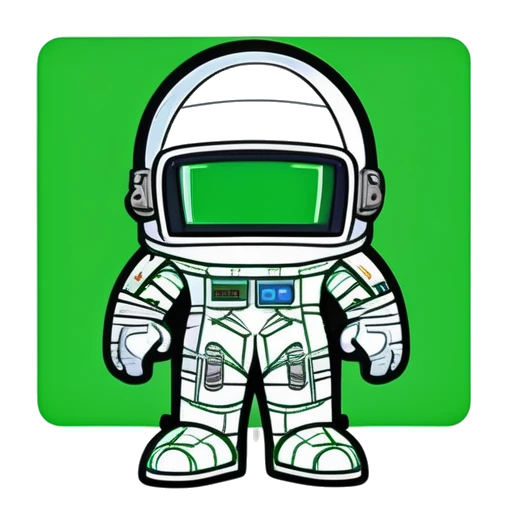
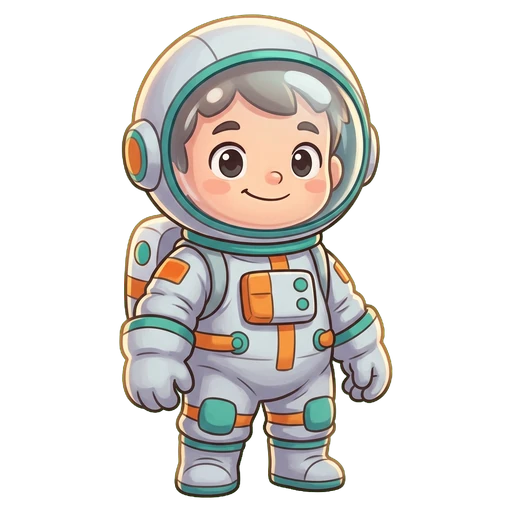
feat(themes): dedicated space and desert art, replacing borrowed assets
The theme art had three defects that were visible in the app, not matters of
taste:

* themes/space/background.webp was beige dune foliage -- not space -- and
  themes/space/quest_hero.webp was a byte-identical md5 copy of that same
  background, so the home hero card rendered a landscape and the file was
  bundled twice.
* themes/space/character.webp shipped with an opaque green chroma box baked
  into its pixels (RGBA, but every "background" pixel was #00E000-ish). On the
  home screen that reads as a green rectangle behind the astronaut.
* The desert theme (AppTheme.fantasy) had no assets at all: the source
  comment admitted it, using story/biome_star_desert_preview.webp as a
  full-screen background and themes/jungle/character.webp as its character --
  i.e. the jungle boy standing in the desert.

New art in one atmospheric 2.5D children's-book style, with the calm centre
the UI overlays need. Same dimensions as before (1024x1536 background,
512x512 alpha character, 1024x512 hero), so no widget changed, and no two
theme files are duplicates any more.

scripts/prepare_theme_art.py does the two things the generator cannot:
chroma-keys the sprites to real alpha with edge despill (otherwise a green
halo survives on the dark space background), and erases the white deckled
paper border the heroes came back with by propagating the nearest real pixels
inward -- measured, because that border is a soft vignette fading over ~25 px,
[…]

diff --git a/lib/core/theme/app_theme_config.dart b/lib/core/theme/app_theme_config.dart
@@ -110,13 +110,11 @@ class AppThemeConfig {
     }
 
     if (resolvedTheme == AppTheme.fantasy) {
-      // Desert palette + story biome preview until dedicated theme PNGs land.
       return const AppThemeConfig(
         theme: AppTheme.fantasy,
-        backgroundAsset:
-            'assets/images/story/biome_star_desert_preview.webp',
-        questHeroAsset: 'assets/images/story/biome_star_desert_preview.webp',
-        characterAsset: 'assets/images/themes/jungle/character.webp',
+        backgroundAsset: 'assets/images/themes/desert/background.webp',
+        questHeroAsset: 'assets/images/themes/desert/quest_hero.webp',
+        characterAsset: 'assets/images/themes/desert/character.webp',
         baseBackgroundColor: AppColors.desertBackground,
         primaryActionColor: AppColors.desertPrimary,
         secondaryActionColor: AppColors.desertSecondary,

diff --git a/scripts/prepare_theme_art.py b/scripts/prepare_theme_art.py
@@ -1,0 +1,166 @@
+"""Prepare generated theme art for the app.
+
+Two jobs the generator cannot do for us:
+
+* chroma-key the character sprites onto real alpha (the old astronaut shipped
+  with an opaque green box baked into the pixels), with edge despill so no
+  green halo survives on the dark space background, and
+* trim the paper border the hero illustration came back with.
+
+Outputs are written as WebP at the same dimensions the existing assets use, so
+the rendering widgets need no changes.
+
+Usage: python3 scripts/prepare_theme_art.py [source_dir]
+
+The generated source PNGs are not checked in (they are a few hundred KB each
+and the WebP output is the artefact that ships); pass the directory holding
+space_background.png, space_character.png, space_hero.png and the desert
+equivalents.
+"""
+
+import io
+import os
+import sys
+
+import numpy as np
+from PIL import Image
+
+SRC = sys.argv[1] if len(sys.argv) > 1 else "/tmp/generated_art"
+OUT = "assets/images/themes"
+
+# Green-screen parameters. The generator produced a near-flat #00E000-ish
+# field; the thresholds are wide enough to take the noise with it but the
+# soft ramp keeps the outline of the artwork instead of chewing it away.
+KEY = np.array([0.0, 224.0, 0.0])
+HARD = 70.0   # fully transparent below this distance from the key colour
+SOFT = 150.0  # fully opaque above this distance
+
+
+def chroma_key(path: str) -> Image.Image:
+    img = Image.open(path).convert("RGB")
+    arr = np.asarray(img).astype(np.float32)
+
+    dist = np.sqrt(((arr - KEY) ** 2).sum(axis=2))
+
+    # 1.0 = keep, 0.0 = drop, linear ramp in between for antialiased edges.
+    alpha = np.clip((dist - HARD) / (SOFT - HARD), 0.0, 1.0)
+
+    # Despill: on the semi-transparent rim, pull the green channel down to the
+    # level of the other channels, otherwise the sprite glows green on a dark
+    # background even though the pixels are "transparent enough".
+    rim = (alpha > 0.0) & (alpha < 1.0)
+    green_excess = arr[:, :, 1] - np.maximum(arr[:, :, 0], arr[:, :, 2])
+    fix = rim & (green_excess > 0)
+    arr[:, :, 1] = np.where(fix, np.maximum(arr[:, :, 0], arr[:, :, 2]), arr[:, :, 1])
+
+    rgba = np.dstack([arr, alpha * 255.0]).clip(0, 255).astype(np.uint8)
+    out = Image.fromarray(rgba, "RGBA")
+
+    # Drop the empty margin, then re-centre on a square canvas so BoxFit.contain
+    # keeps the sprite the same perceived size as the previous art.
+    bbox = out.split()[3].getbbox()
+    if bbox is None:
+        raise SystemExit(f"{path}: chroma key removed everything")
+    out = out.crop(bbox)
+    side = int(max(out.size) * 1.06)
+    square = Image.new("RGBA", (side, side), (0, 0, 0, 0))
+    square.paste(out, ((side - out.width) // 2, (side - out.height) // 2))
+    return square.resize((512, 512), Image.LANCZOS)
+
+
+def trim_paper_border(path: str, pad: int = 60, aspect: float = 2.0) -> Image.Image:
+    """Remove the white deckled paper border the hero came back with.
+
+    Cropping cannot fix this: a scan of the source shows the "border" is a soft
+    white vignette fading over ~25 px at the top and ~15 px at the sides, so
+    every inset either leaves a white sliver or eats the artwork. Instead the
+    paper band is refilled by propagating the nearest real pixels inward, which
+    is what the eye expects at a frame edge, and the result is centre-cropped to
+    the card's aspect ratio.
+    """
+    img = Image.open(path).convert("RGB")
+    arr = np.asarray(img).astype(np.float32)
+    h, w, _ = arr.shape
+
+    paper = arr.min(axis=2) > 235
+    band = np.zeros((h, w), dtype=bool)
+    band[:pad, :] = True
+    band[-pad:, :] = True
+    band[:, :pad] = True
+    band[:, -pad:] = True
+    remaining = paper & band
+
+    if remaining.any():
+        for _ in range(pad + 8):
+            known = ~remaining
+            up = np.roll(known, 1, axis=0)
+            dn = np.roll(known, -1, axis=0)
+            lf = np.roll(known, 1, axis=1)
+            rt = np.roll(known, -1, axis=1)
+            nbrs = up.astype(np.int8) + dn + lf + rt
+            fillable = remaining & (nbrs > 0)
+            if not fillable.any():
+                break
+            # Average only over neighbours that already hold real pixels --
+            # including the paper ones is what keeps a white sliver alive.
+            acc = np.zeros_like(arr)
+            count = np.zeros((h, w), dtype=np.float32)
+            for shift, axis in ((1, 0), (-1, 0), (1, 1), (-1, 1)):
+                shifted = np.roll(arr, shift, axis=axis)
+                known_shifted = np.roll(known, shift, axis=axis)
+                acc += shifted * known_shifted[:, :, None]
+                count += known_shifted
+            filled = fillable & (count > 0)
+            arr[filled] = acc[filled] / count[filled][:, None]
+            remaining = remaining & ~filled
+
+    img = Image.fromarray(arr.clip(0, 255).astype(np.uint8), "RGB")
+    img = img.crop((16, 16, w - 16, h - 16))
+
+    # Centre-crop to the target aspect so BoxFit.cover does not stretch it.
+    w, h = img.size
+    if w / h > aspect:
+        new_w = int(h * aspect)
+        img = img.crop(((w - new_w) // 2, 0, (w + new_w) // 2, h))
+    elif w / h < aspect:
+        new_h = int(w / aspect)
+        img = img.crop((0, (h - new_h) // 2, w, (h + new_h) // 2))
+    return img
+
+
+def save_webp(img: Image.Image, rel: str, size: tuple[int, int], quality: int = 90) -> str:
+    path = os.path.join(OUT, rel)
+    os.makedirs(os.path.dirname(path), exist_ok=True)
+    img = img.resize(size, Image.LANCZOS)
+    img.save(path, "WEBP", quality=quality, method=6, alpha_quality=100)
+    return path
+
+
+def main() -> None:
+    made = []
+
+    made.append(save_webp(
+        Image.open(f"{SRC}/space_background.png").convert("RGB"),
+        "space/background.webp", (1024, 1536)))
+    made.append(save_webp(chroma_key(f"{SRC}/space_character.png"),
+                          "space/character.webp", (512, 512)))
+    made.append(save_webp(trim_paper_border(f"{SRC}/space_hero.png"),
+                          "space/quest_hero.webp", (1024, 512)))
+
+    made.append(save_webp(
+        Image.open(f"{SRC}/desert_background.png").convert("RGB"),
+        "desert/background.webp", (1024, 1536)))
+    made.append(save_webp(chroma_key(f"{SRC}/desert_character.png"),
+                          "desert/character.webp", (512, 512)))
+    made.append(save_webp(trim_paper_border(f"{SRC}/desert_hero.png"),
+                          "desert/quest_hero.webp", (1024, 512)))
+
+    for p in made:
+        im = Image.open(p)
+        alpha = "has-alpha" if im.mode == "RGBA" else "opaque"
+        print(f"{os.path.getsize(p) / 1024:8.1f} KB  {im.size[0]}x{im.size[1]}  "
+              f"{alpha:9s} {p}")
+
+
+if __name__ == "__main__":
+    main()

diff --git a/docs/DECISIONS_LOG.md b/docs/DECISIONS_LOG.md
@@ -111,3 +111,12 @@ Princip: senaste datum vinner vid konflikt.
 ### 2026-04-18
 - UI-anrop via `PostFrameCallback` inuti `build()` ersattes med `ref.listen` for sidoeffekter.
 - Borttagning av Lottie/Rive från primary runtime.
+
+### 2026-11-22
+- Temaillustrationer: `themes/space/` och nya `themes/desert/` ersatta med egen konst i atmosfärisk 2.5D-barnboksstil.
+  - Space-temats bakgrund var beige djungelvegetation (fel genre) och `space/quest_hero.webp` var en byte-identisk kopia av bakgrunden (md5) — hero-kortet visade alltså en landskapsbild, och filen lagrades två gånger.
+  - Space-astronauten levererades med en **inbakad grön chroma-ruta** (RGBA men ogenomskinliga gröna pixlar). Nu riktig alfa; `scripts/prepare_theme_art.py` gör keyningen med despill på kantpixlarna så ingen grön halo syns mot den mörka rymdbakgrunden.
+  - Öken-temat (`AppTheme.fantasy`) lånade `story/biome_star_desert_preview.webp` som helskärmsbakgrund och `themes/jungle/character.webp` som karaktär — dvs. djungelkillen visades i öknen. Egen bakgrund, egen utforskarkaraktär (flicka med scarf och goggles) och egen hero.
+  - Hero-bilderna kom med en vit pappersram; den tas bort genom att fylla pappersbandet inifrån med närmaste riktiga pixlar (kantförlängning), inte genom beskärning — ramen är en mjuk vinjett som bleknar över ~25 px, så varje beskärning lämnade antingen vit kant eller åt konst.
+  - Alla nya filer är WebP på samma dimensioner som tidigare (bakgrund 1024×1536, karaktär 512×512 med alfa, hero 1024×512), så inga widgetar behövde ändras.
+- Kvar att titta på: `ThemedBackgroundScaffold` lägger `baseBackgroundColor` över bilden med 0.72–0.84 alfa, så merparten av detaljerna i den nya konsten dämpas. Att sänka scrimmen kräver kontrastmätning mot texten först.
